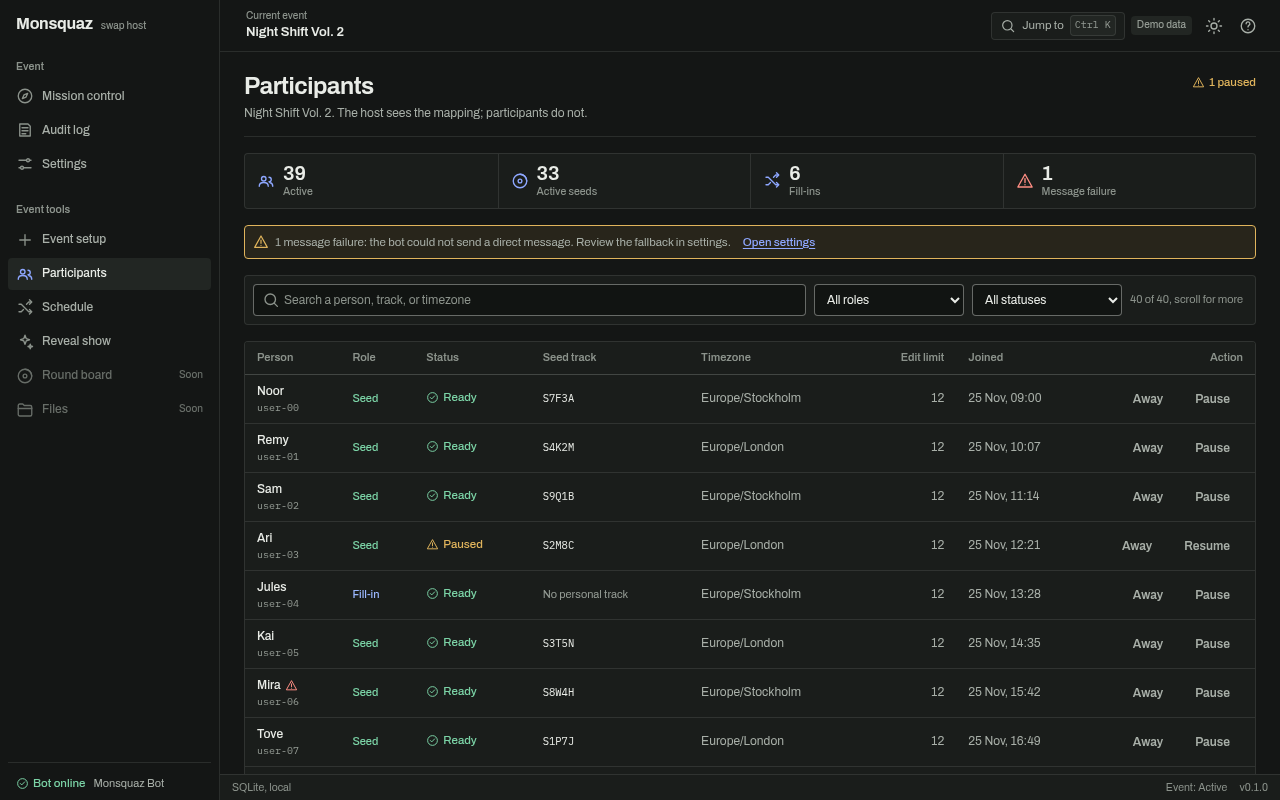
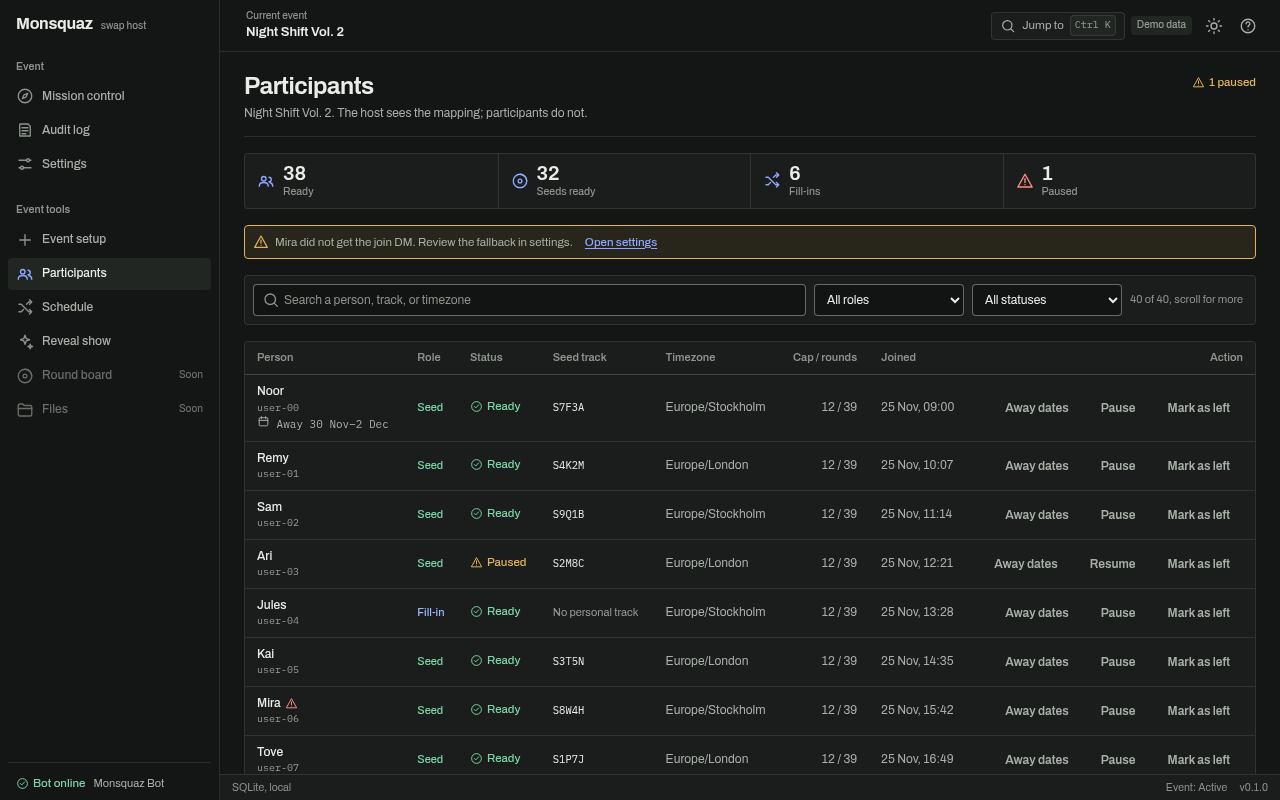
docs(ui): capture and review the fill-in and leave states
Add the leave and restore dialogs, the fill-in dialog with both offer
windows, the ordered list at 1280 and 1024 in both themes, and the setup
step with the fill-in controls. Record the visual, UX/copy, and
accessibility review waves. Regenerate the scenario coverage report.

diff --git a/docs/ui/reviews/MSW-080.md b/docs/ui/reviews/MSW-080.md
@@ -1,0 +1,75 @@
+# UI review — MSW-080 fill-in settings and leave dialogs
+
+Review date: 2026-11-28. Build: MSW-080 worktree.
+
+Changed surfaces:
+
+- Participants: the leave and restore confirmation dialogs.
+- Mission control: the fill-in dialog with a host due time, a separate claim
+  window and edit window, and an ordered fill-in list with Up, Down, and
+  Remove.
+- Event setup, Basics: the fill-in flow, the fill-in edit window, and the
+  fill-in claim window.
+
+Screenshots:
+
+- `docs/ui/screens/people-leave-dialog-{dark-1280,dark-1024,light-1280}.png`
+- `docs/ui/screens/people-leave-fill-in-dialog-{dark-1280,dark-1024,light-1280}.png`
+- `docs/ui/screens/people-restore-dialog-{dark-1280,dark-1024,light-1280}.png`
+- `docs/ui/screens/people-{empty,loading,populated,error,long,dense}-*.png`
+- `docs/ui/screens/mission-fill-in-{dark-1280,dark-1024,light-1280}.png`
+- `docs/ui/screens/mission-fill-in-list-dark-{1280,1024}.png`
+- `docs/ui/screens/mission-fill-in-list-light-1280.png`
+- `docs/ui/screens/setup-populated-{dark-1280,dark-1024,light-1280}.png`
+- `docs/ui/screens/setup-populated-{dark-1280x1200,dark-1024x1100}.png`
+- `docs/ui/screens/setup-{first-run,error,long}-dark-1280.png`
+
+The deterministic gate passed before these waves:
+`scripts/design-check.sh` reports 0 locked findings. The gate checks
+overflow, clipping, contrast, focus, and the locked scales. The three waves
+below are separate review passes over the captures and the source.
+
+## Wave 1 — Visual design
+
+| View | State | Severity | Problem | Resolution |
+|---|---|---|---|---|
+| Participants | Leave dialog, 1280 and 1024 | should-fix | The consequence list had no bullet markers because the global list rule removes them. Five sentences read as one block. | Added `.dialog-list` with a disc marker, an 18 px inset, and 6 px row gap. Re-captured. |
+| Mission control | Fill-in list, 1280 | should-fix | The demo list showed a raw id for the third person. The row looked like placeholder data. | The capture fixture now uses two resolved candidates. Re-captured. |
+| Mission control | Fill-in list, 1024x700 | must-fix | The second list row was below the dialog fold. The long intro and a separate window-help paragraph pushed it out. | The window copy moved into the intro. The separate paragraph is removed. Both rows are visible at 1024x700. Re-captured. |
+| Event setup | Basics, 1280x800 | nit | The fill-in controls start below the 800 px fold. The capture did not show the claim window. | Added 1280x1200 and 1024x1100 captures. The controls stack without overflow. |
+
+No open must-fix after the re-capture. The dialogs fit at 1024x700, the light
+theme keeps the same hierarchy, and the ordered list rows align with the
+existing away-range rows.
+
+## Wave 2 — UX and copy
+
+| View | State | Severity | Problem | Resolution |
+|---|---|---|---|---|
+| Participants | Restore dialog | must-fix | The host was not told that the restore invitation expires after 7 days (D-068). | Added "The invitation expires after 7 days." Re-captured. |
+| Participants | Leave dialog, fill-in row | must-fix | The copy said that the seed stays, but a fill-in has no personal seed. The bot warning also said that no DM can arrive, although a restore DM can. | The dialog now states the role: a seed stays, or the person has no personal seed. The bot warning says that no DM is sent unless the host asks the person to return. The `person=fillin` capture shows the fill-in branch at 1280 and 1024, dark and light. Re-captured. |
+| Mission control | Fill-in list result | should-fix | The toast said "Nobody on the list can take the track now" while the chain waited for quiet hours. | The toast now separates a quiet-hours wait from an exhausted list. |
+| Event setup | Fill-in window fields | should-fix | The help text did not say that a host due time replaces the edit window and that a claim starts the edit window. | The help text now states both rules. Re-captured. |
+
+No open must-fix. The host can see the next action in each dialog, and each
+destructive action confirms the consequence first.
+
+## Wave 3 — Accessibility
+
+| View | State | Severity | Problem | Resolution |
+|---|---|---|---|---|
+| Mission control | Ordered fill-in list | should-fix | A reorder changed the visual order with no screen-reader announcement. | The list has `aria-live="polite"`. Up, Down, and Remove have person-specific labels. |
+| Participants | Leave dialog | nit | Initial focus lands on Close because the dialog has no text input. The focus trap and Escape path work. | Accepted. Continue is one Tab away, and Escape cancels. |
+| Event setup | Fill-in fields | nit | The claim window is alone on the second grid row at 1024 px. | Accepted. The label, input, and help text stay together with no clipping. |
+
+The design gate confirmed visible focus and contrast. The number inputs keep
+their labels and `aria-describedby` help. No status relies on color alone.
+The 1024 px captures show no horizontal scroll or clipped control.
+
+## Automated evidence
+
+- `pnpm --dir ui typecheck`: pass.
+- `pnpm --dir ui test`: 59 tests pass, including the fill-in settings test
+  and the ordered-list reorder and remove test.
+- `scripts/design-check.sh`: pass, 0 locked findings.
+- `docs/ui/capture.sh` generated the captures above from this checkout.
